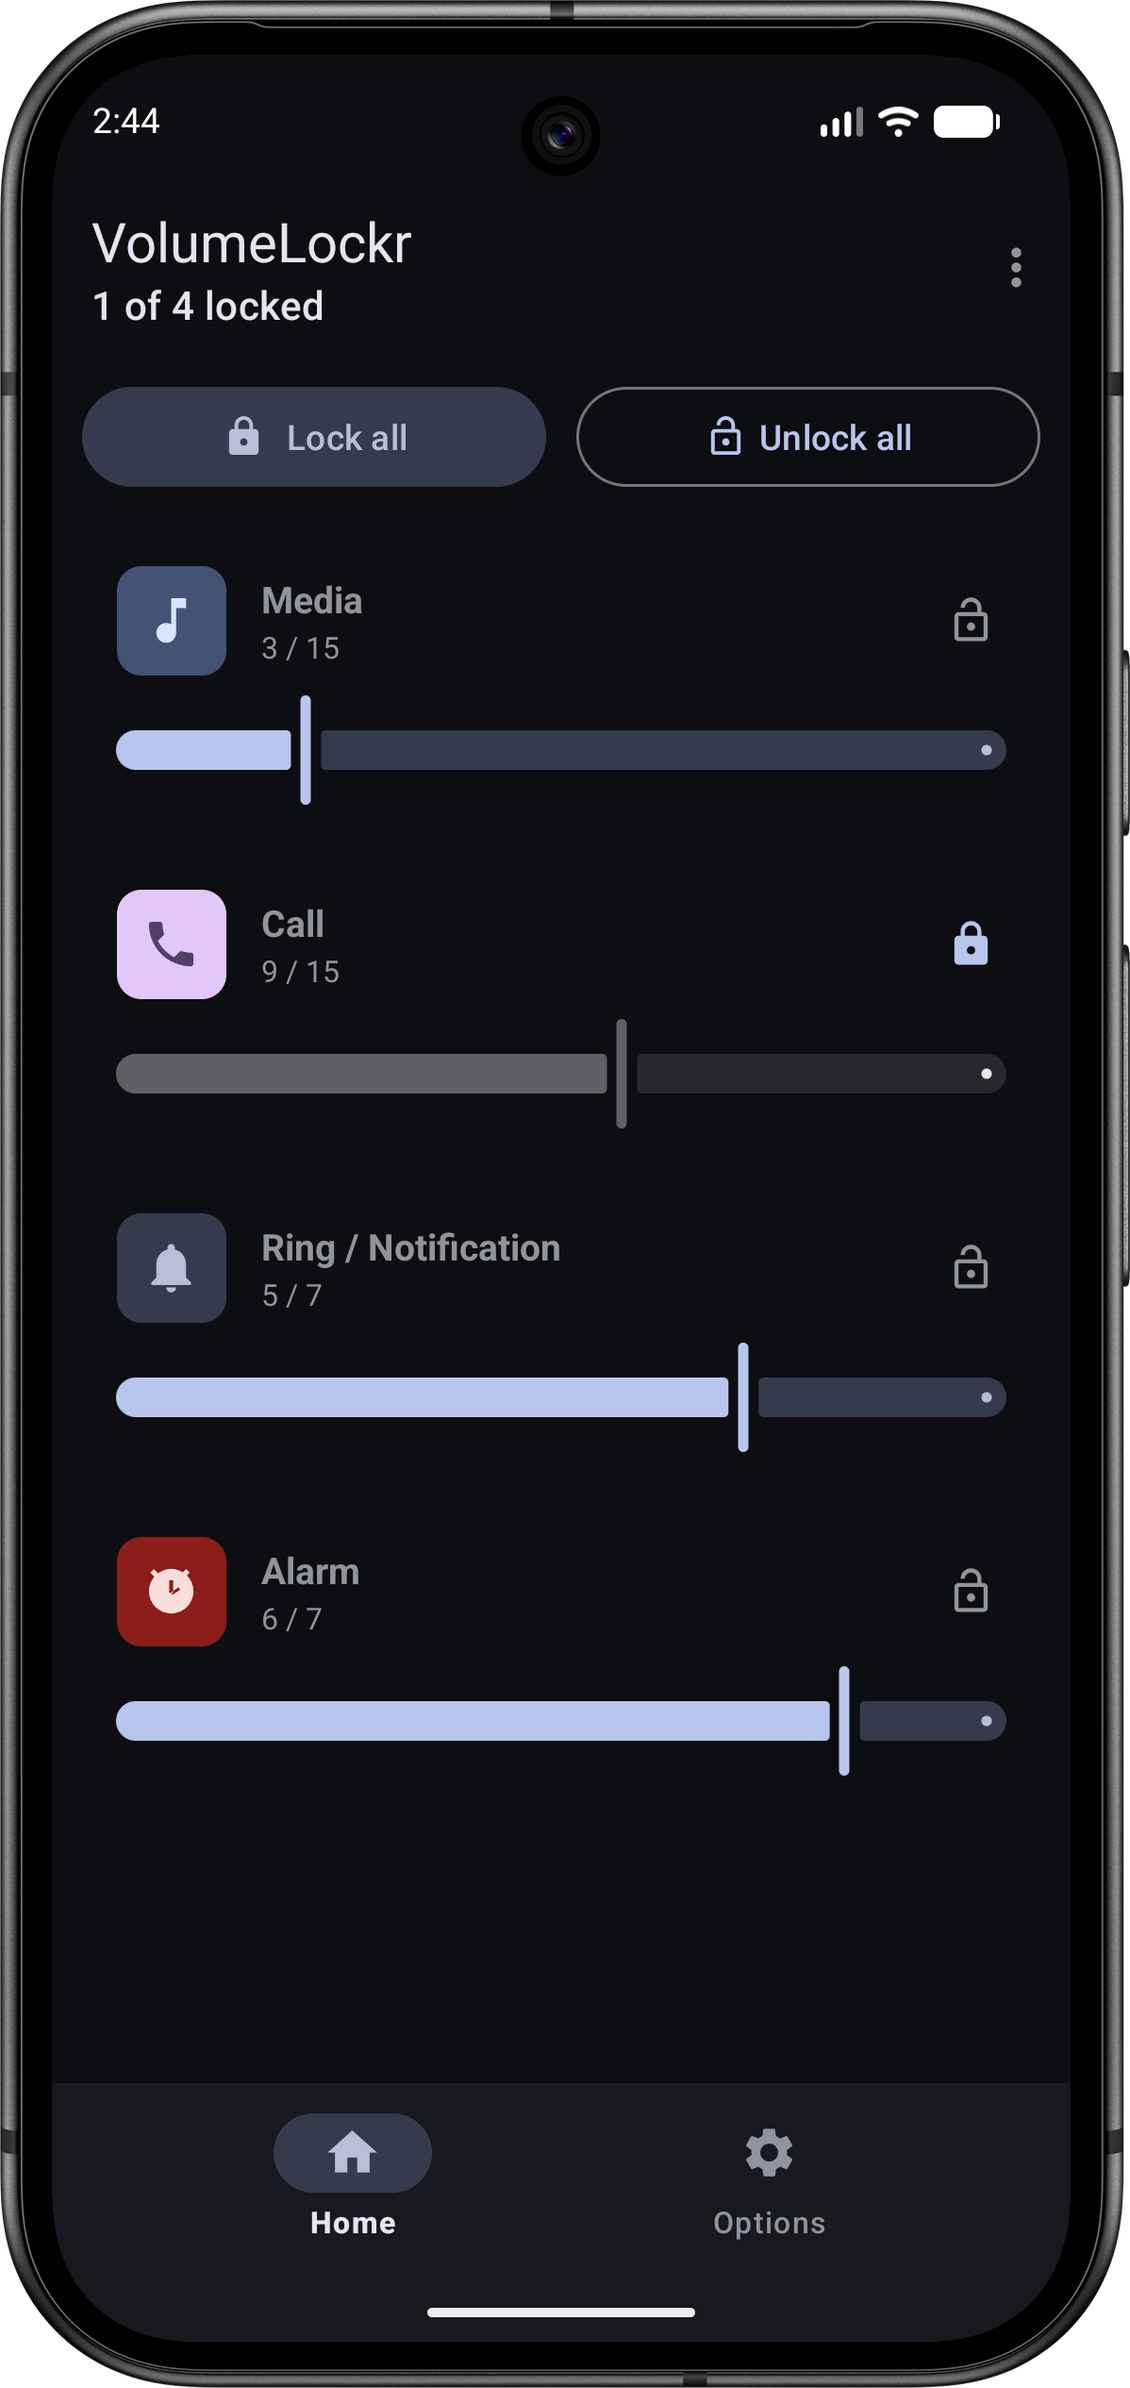
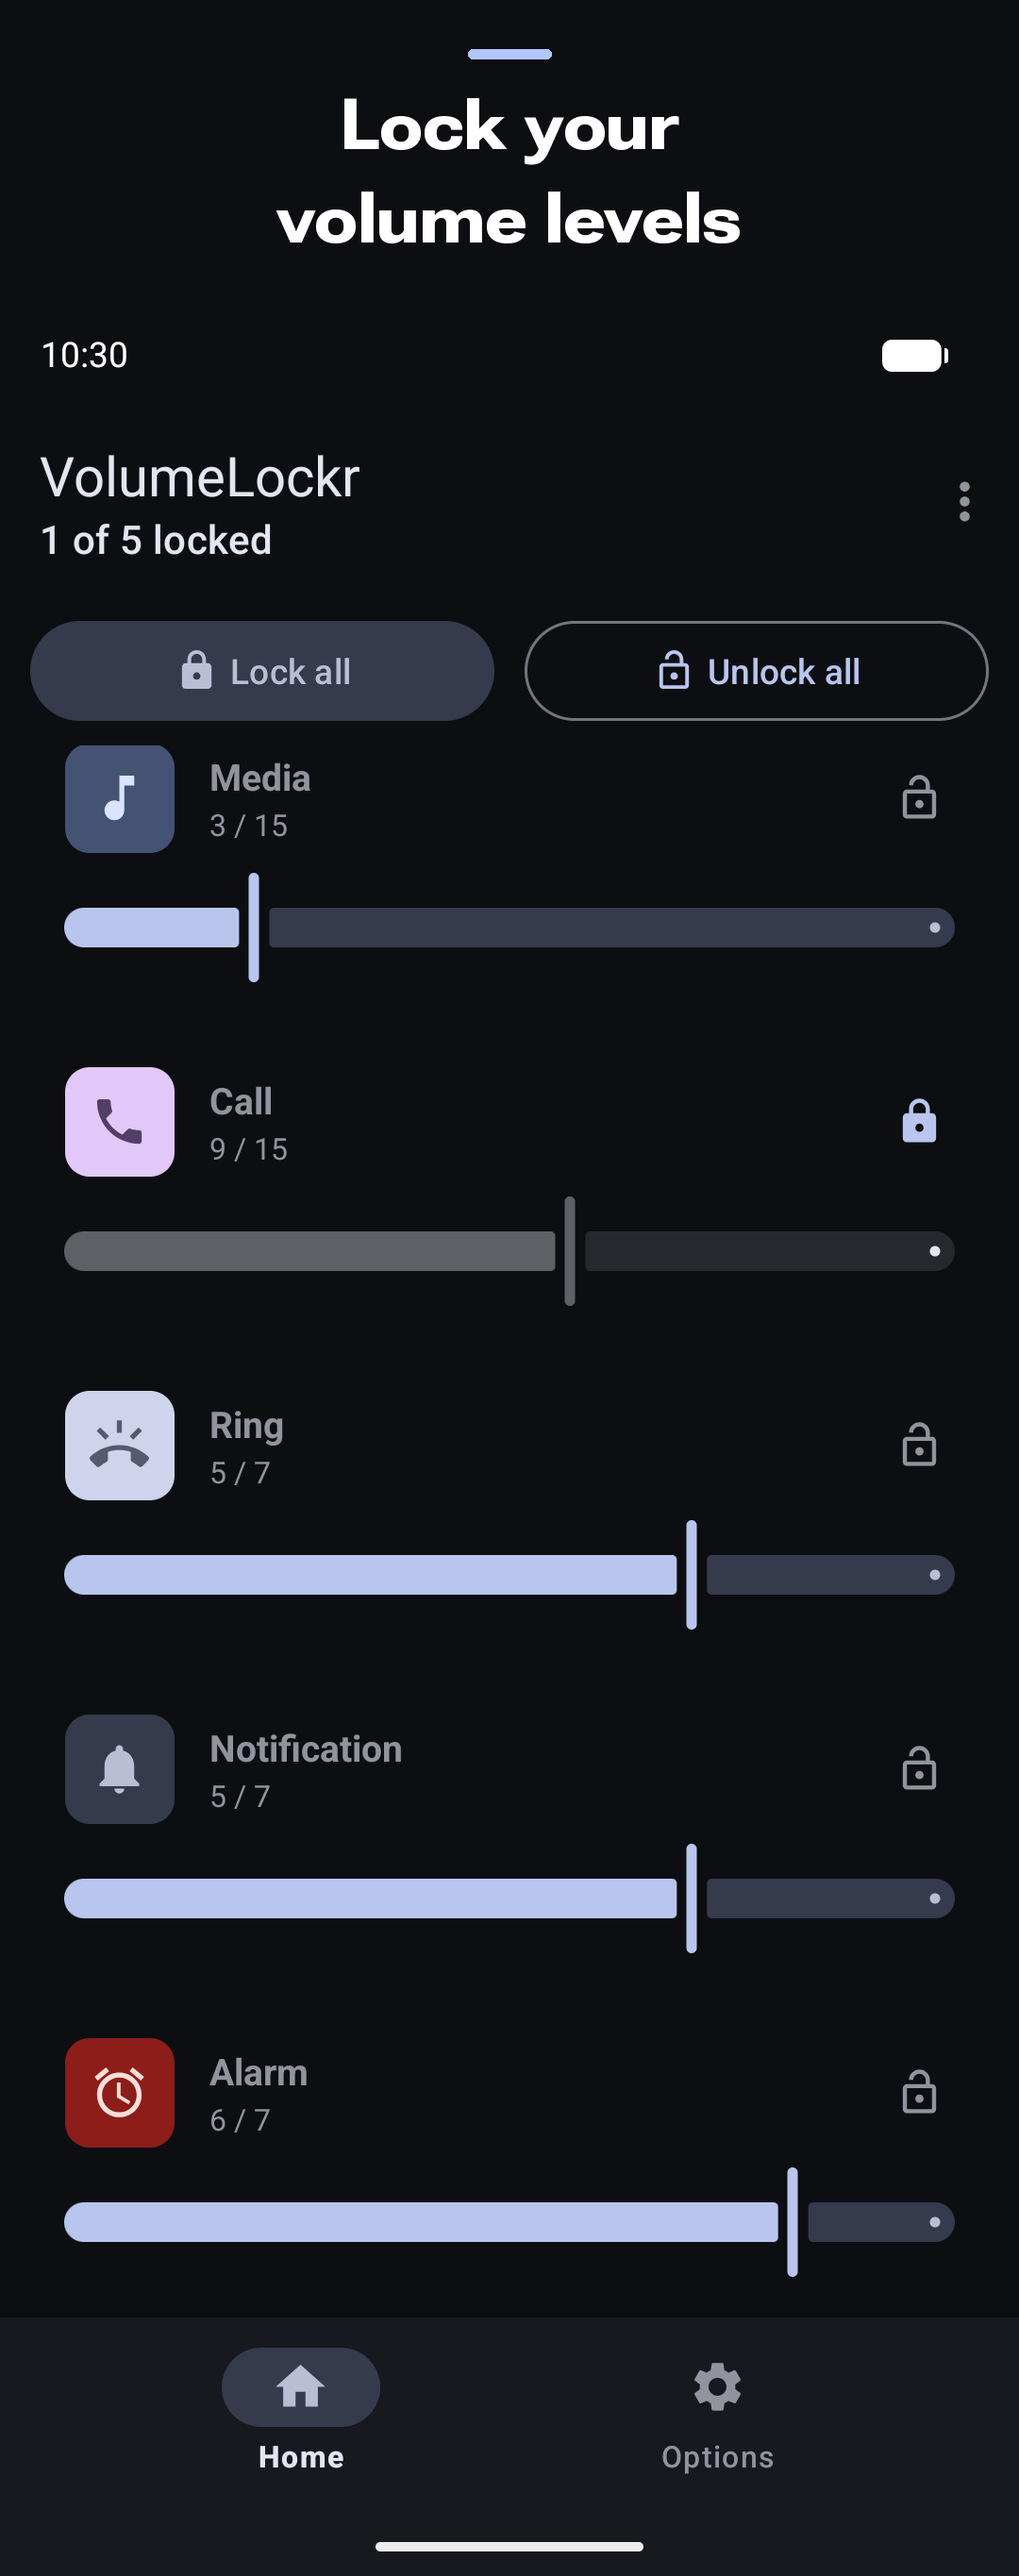
chore: update screenshots

diff --git a/README.md b/README.md
@@ -1,7 +1,7 @@
 # VolumeLockr 
 VolumeLockr allows you to control your Android device volume levels and set locks for each one of them.
 
-<p><img src="https://github.com/jonathanklee/VolumeLockr/blob/main/fastlane/metadata/android/en-US/images/phoneScreenshots/1.png?raw=true" width="200"/>&nbsp&nbsp<img src="https://github.com/jonathanklee/VolumeLockr/blob/main/fastlane/metadata/android/en-US/images/phoneScreenshots/2.png?raw=true" width="200"/></p>
+<p><img src="https://github.com/jonathanklee/VolumeLockr/blob/main/fastlane/metadata/android/en-US/images/phoneScreenshots/1.png?raw=true" width="200"/>&nbsp&nbsp<img src="https://github.com/jonathanklee/VolumeLockr/blob/main/fastlane/metadata/android/en-US/images/phoneScreenshots/2.png?raw=true" width="200"/>&nbsp&nbsp<img src="https://github.com/jonathanklee/VolumeLockr/blob/main/fastlane/metadata/android/en-US/images/phoneScreenshots/3.png?raw=true" width="200"/></p>
 
 ## Installation
 You can either download it from F-Droid or build it manually.
